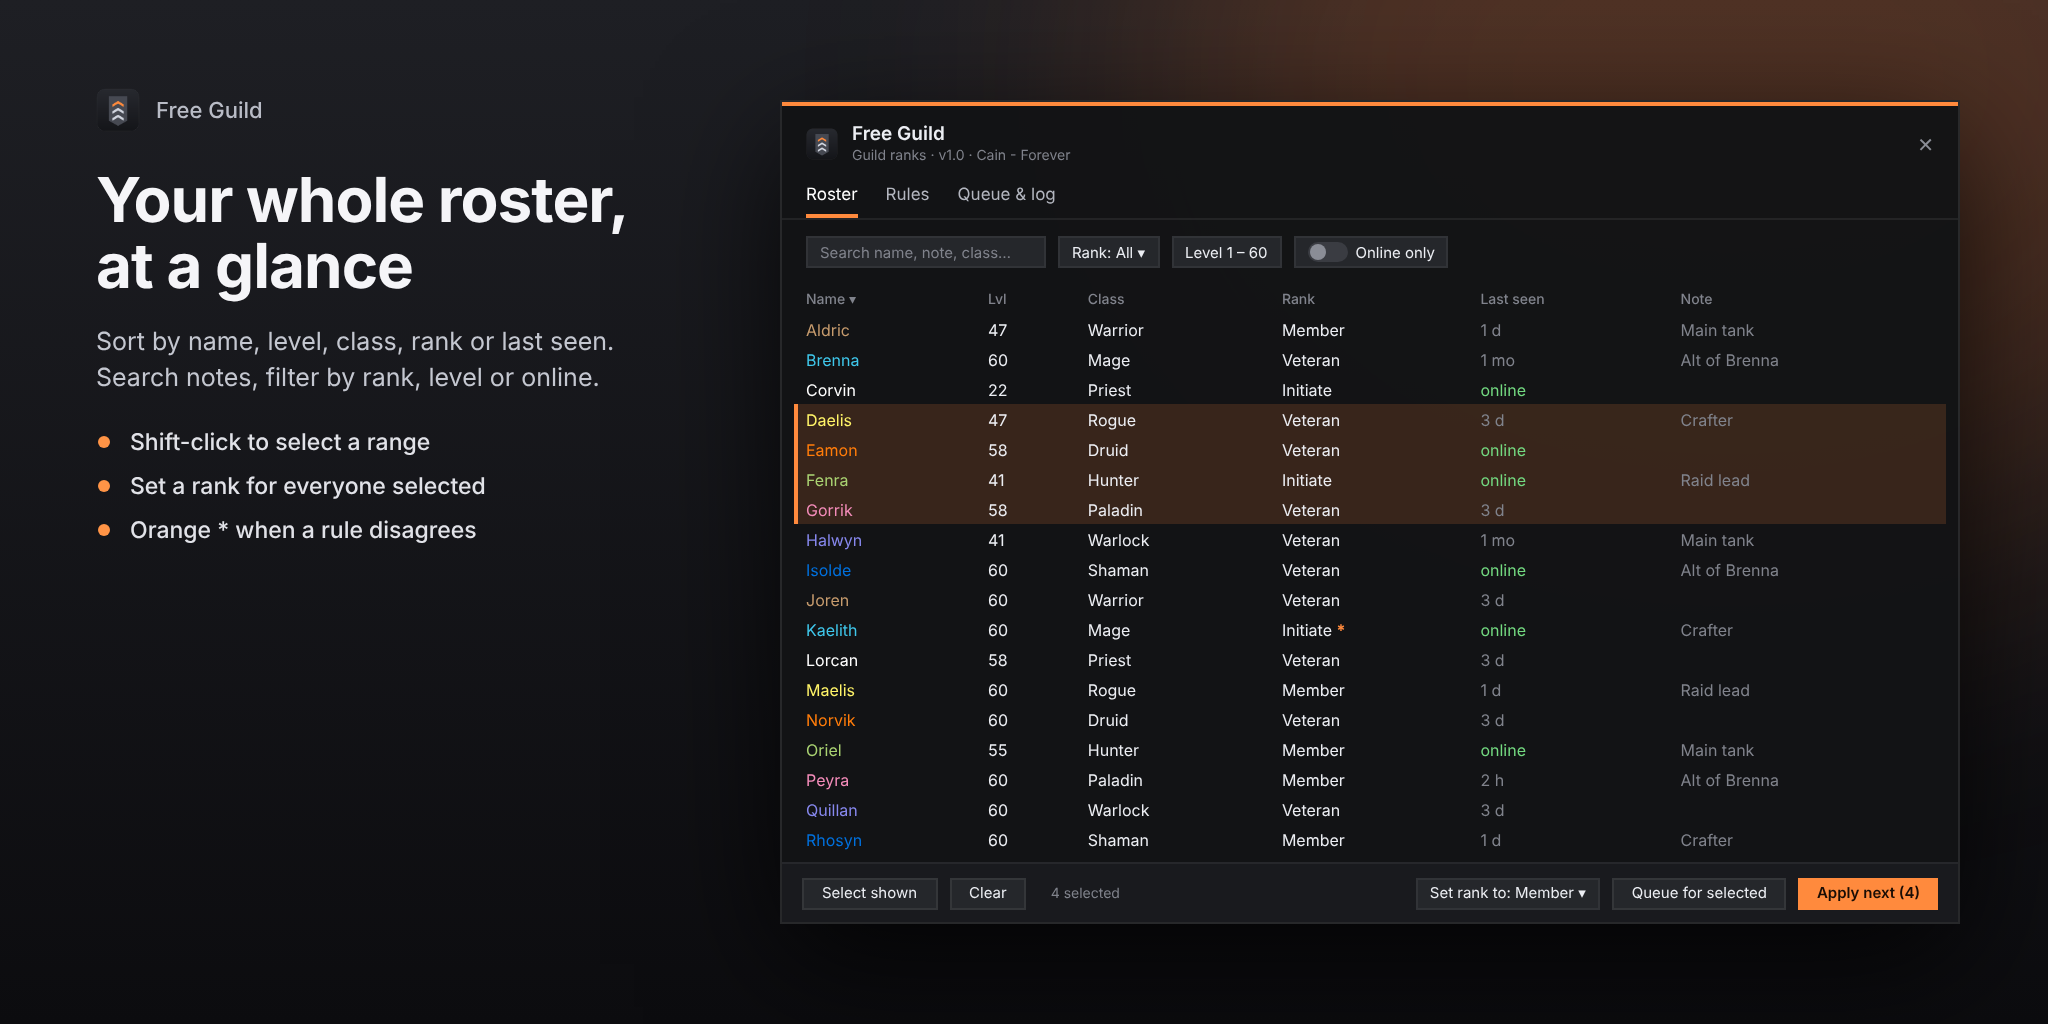
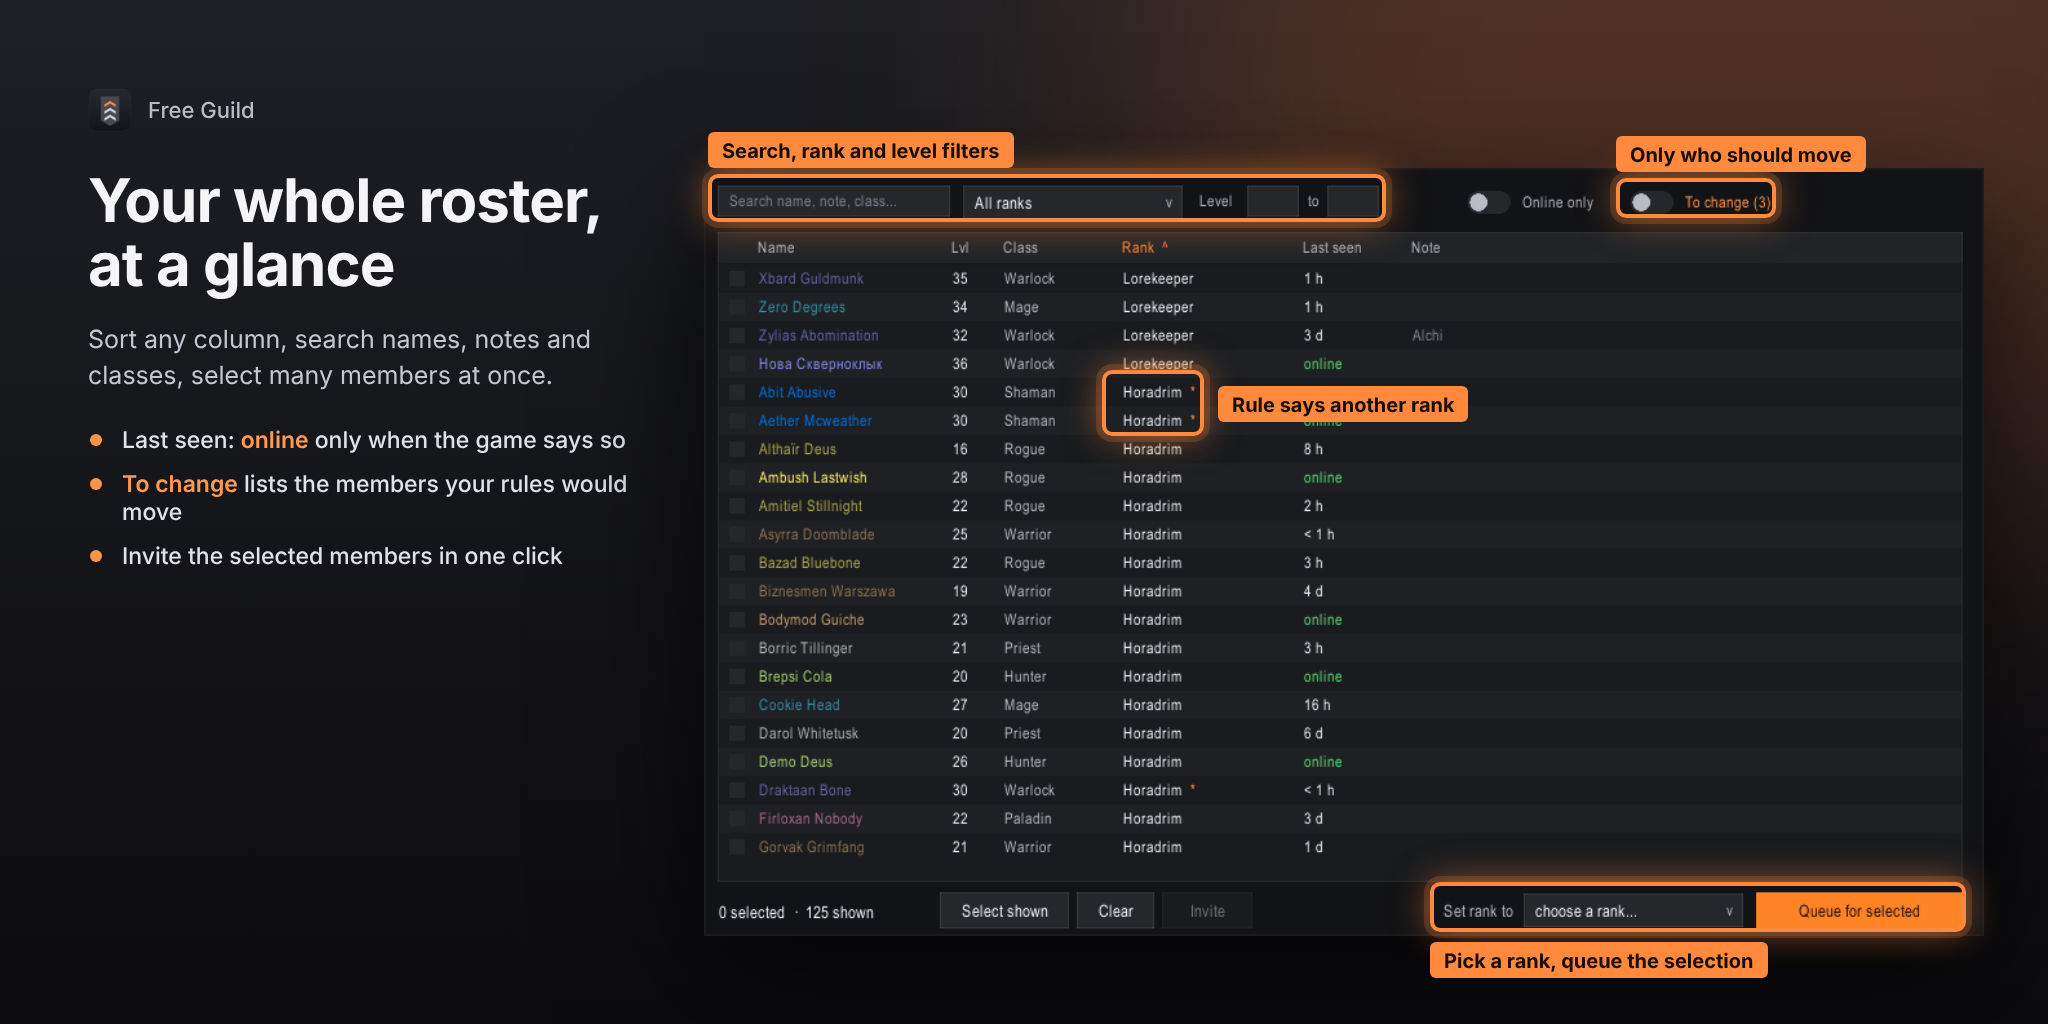
New gallery and social preview from in-game screenshots (roster, stats, rules, queue)
Claude-Session: https://claude.ai/code/session_01UJETuYnxjy6K9JmECh76nb

diff --git a/README.md b/README.md
@@ -9,11 +9,12 @@
 
 <table>
 <tr>
-<td width="50%" valign="top"><img src="curseforge/images/fg_2.png" alt="Your whole roster, at a glance"><br><b>Your whole roster, at a glance</b><br><sub>Sort, search, filter, select many members at once.</sub></td>
-<td width="50%" valign="top"><img src="curseforge/images/fg_3.png" alt="Rules that promote for you"><br><b>Rules that promote for you</b><br><sub>Level, class, seniority, last online, notes… mapped to ranks.</sub></td>
+<td width="50%" valign="top"><img src="curseforge/images/fg_2.png" alt="Your whole roster, at a glance"><br><b>Your whole roster, at a glance</b><br><sub>Sort, search, filter, select many members at once; To change shows who your rules would move.</sub></td>
+<td width="50%" valign="top"><img src="curseforge/images/fg_3.png" alt="Your guild in numbers"><br><b>Your guild in numbers</b><br><sub>Members by class, level band and rank; click a line to open the roster on it.</sub></td>
 </tr>
 <tr>
-<td width="50%" valign="top"><img src="curseforge/images/fg_4.png" alt="One click per change"><br><b>One click per change</b><br><sub>The game allows one rank change per click; Free Guild queues them for you.</sub></td>
+<td width="50%" valign="top"><img src="curseforge/images/fg_4.png" alt="Rules that promote for you"><br><b>Rules that promote for you</b><br><sub>Level, class, rank, days in the guild, days offline, notes… mapped to ranks.</sub></td>
+<td width="50%" valign="top"><img src="curseforge/images/fg_5.png" alt="One click per change"><br><b>One click per change</b><br><sub>The game allows one rank change per click; Free Guild queues them for you.</sub></td>
 </tr>
 </table>
 

diff --git a/curseforge/description.md b/curseforge/description.md
@@ -11,9 +11,10 @@
 ## Gallery (title — description)
 
 1. `images/fg_1.png` — **Free Guild** — Guild ranks, sorted out in a few clicks.
-2. `images/fg_2.png` — **Your whole roster, at a glance** — Sort, search, filter, select many members at once.
-3. `images/fg_3.png` — **Rules that promote for you** — Level, class, seniority, last online, notes… mapped to ranks.
-4. `images/fg_4.png` — **One click per change** — The game allows one rank change per click; Free Guild queues them for you.
+2. `images/fg_2.png` — **Your whole roster, at a glance** — Sort, search, filter, select many members at once; To change shows who your rules would move.
+3. `images/fg_3.png` — **Your guild in numbers** — Members by class, level band and rank; click a line to open the roster on it.
+4. `images/fg_4.png` — **Rules that promote for you** — Level, class, rank, days in the guild, days offline, notes… mapped to ranks.
+5. `images/fg_5.png` — **One click per change** — The game allows one rank change per click; Free Guild queues them for you.
 
 ---
 
